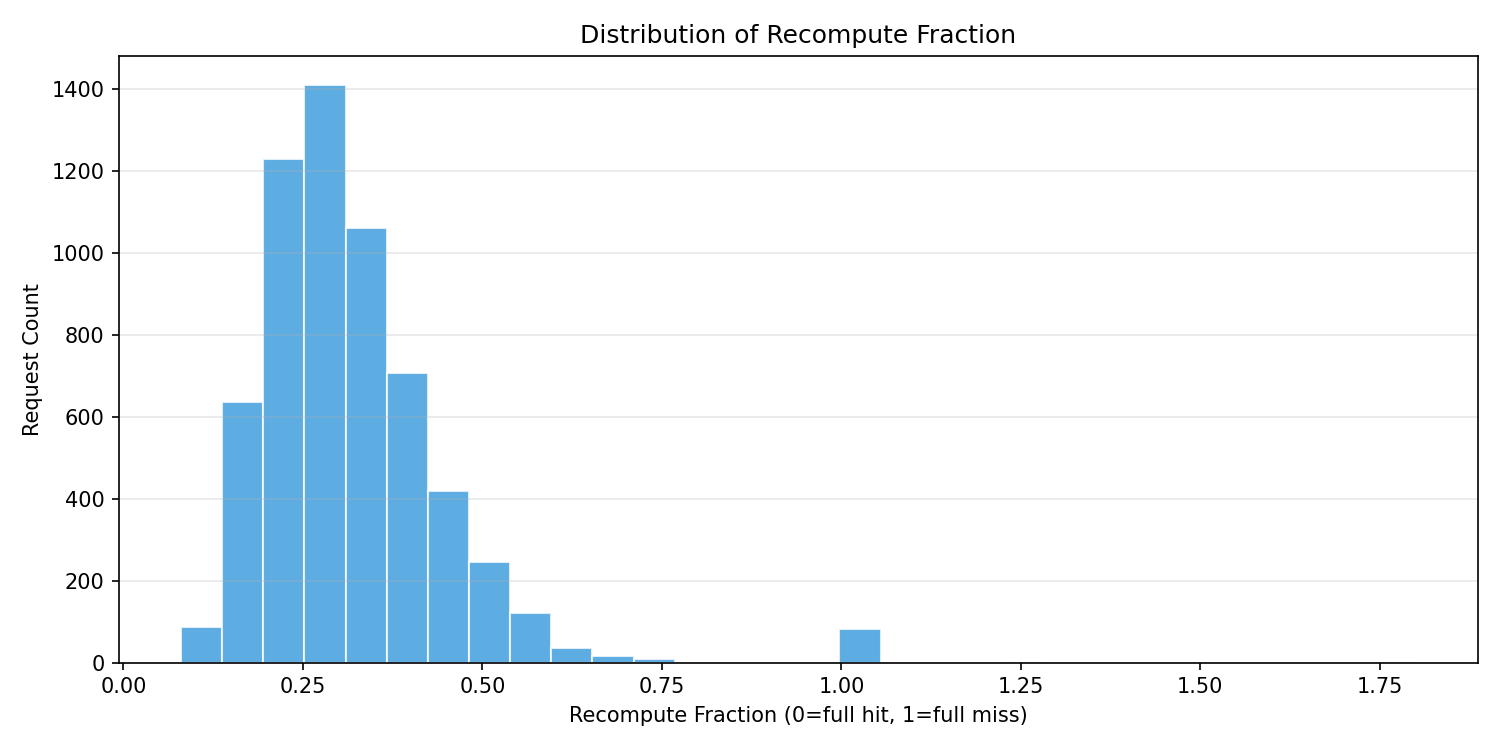
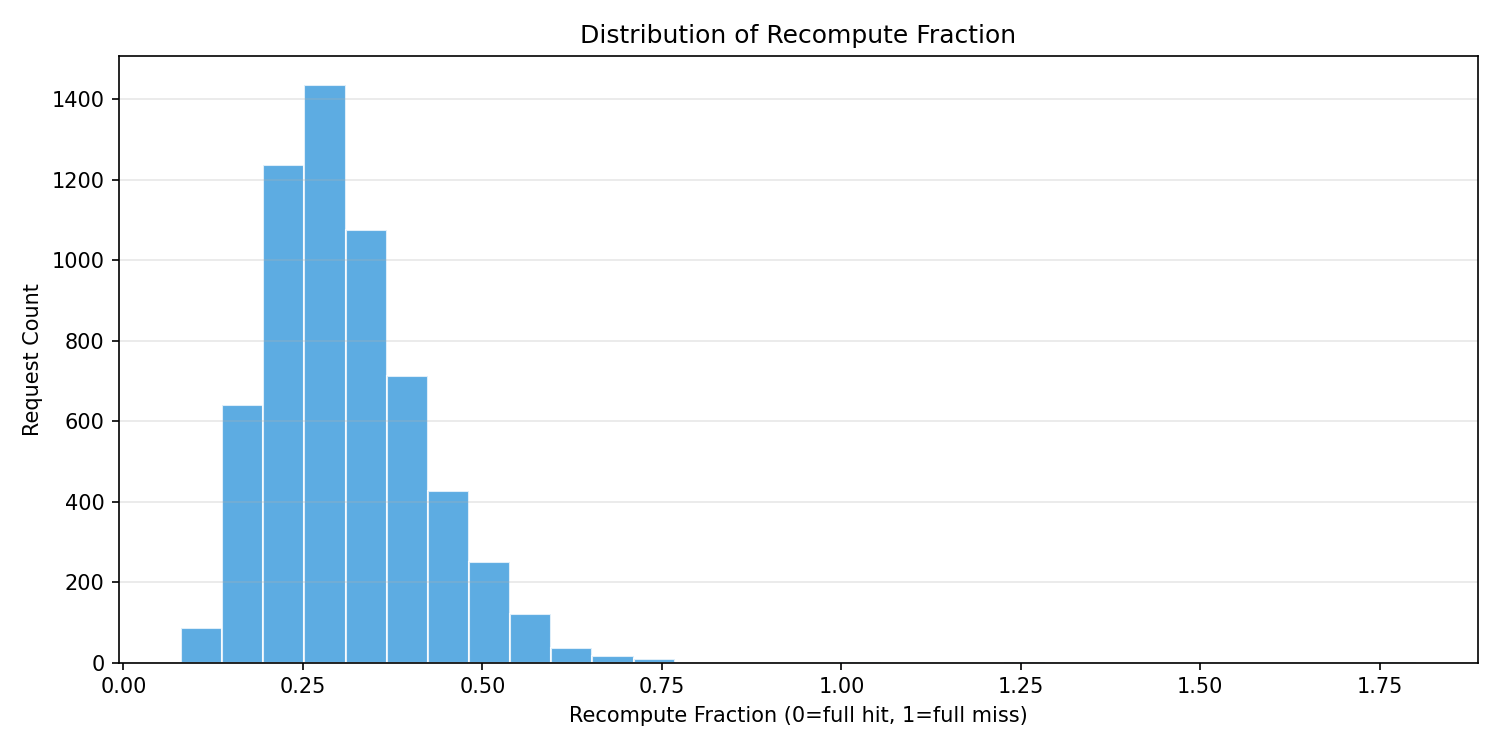
Fix config consistency: heavy_coding plots use realistic hardware
stressed_config() now only applies small-capacity overrides for the
default config. Custom configs (--config) use their own hardware values.

heavy_coding.json results with realistic hardware (80GB L1, 1TB L2,
8TB L3A per worker):
- 98.2% L1 hits — HBM holds most coding KV objects
- 99.9% total hit rate — cache never overflows at realistic scale
- Global = Local L3A everywhere (8TB/worker is more than enough)
- Bottleneck is prefill compute (14-17s), not cache capacity
- Sustaining QPS: 44/worker, scaling linearly to 332 at 8 workers

diff --git a/scripts/sanity_plots.py b/scripts/sanity_plots.py
@@ -213,18 +213,21 @@ def plot_recompute_fraction(metrics):
 
 def stressed_config() -> SimConfig:
     """
-    Constrained scenario forcing multi-tier activity in short sims.
-    All capacities are per-worker (L3A = per-worker SSD).
+    For custom configs (--config), use their hardware values with shortened sim.
+    For default config, apply small-capacity overrides to force multi-tier activity.
     """
     cfg = short_config()
     cfg.run_id = "stressed"
-    cfg.tiers[0].capacity_bytes = 500 * 1024**2        # 500 MB L1 per GPU — can't hold coding KV
-    cfg.tiers[1].capacity_bytes = 10 * 1024**3          # 10 GB L2 per worker
-    cfg.tiers[2].capacity_bytes = 50 * 1024**3          # 50 GB L3A per worker SSD
-    cfg.ttl_l2_s = 20.0
-    cfg.ttl_l3a_s = 120.0
-    cfg.eviction_hbm_threshold = 0.6
-    cfg.eviction_ram_threshold = 0.8
+    if CONFIG_PATH == _DEFAULT_CONFIG:
+        # Default config: apply stressed overrides to force multi-tier activity
+        cfg.tiers[0].capacity_bytes = 500 * 1024**2        # 500 MB L1 per GPU
+        cfg.tiers[1].capacity_bytes = 10 * 1024**3          # 10 GB L2 per worker
+        cfg.tiers[2].capacity_bytes = 50 * 1024**3          # 50 GB L3A per worker SSD
+        cfg.ttl_l2_s = 20.0
+        cfg.ttl_l3a_s = 120.0
+        cfg.eviction_hbm_threshold = 0.6
+        cfg.eviction_ram_threshold = 0.8
+    # Custom configs: use their own hardware values as-is
     return cfg
 
 

diff --git a/docs/heavy_coding_report.md b/docs/heavy_coding_report.md
@@ -29,46 +29,46 @@
 | L2 (DRAM) | 1 TB | 64 GB/s | 32 MB | Per-worker (shared by 8 GPUs) |
 | L3A (SSD) | 8 TB | 7 GB/s | 256 MB | Per-worker SSD; global mode pools all workers |
 
-**Worker topology**: 8 GPUs per worker. Workers = 1, 2, 4, or 8 (8-64 GPUs total).
+**Worker topology**: 8 GPUs per worker (H100 DGX-class).
 
 **Service**: 32 prefill slots/GPU, 256 decode slots shared, 128 prefill queue max/GPU.
 
-## Stressed Scenario Results (single worker, 8 GPUs)
-
-Small L1 (500MB) and L2 (10GB) per worker force multi-tier activity. L3A = 50GB/worker.
+## Single Worker Results (8 GPUs, realistic hardware)
 
 ```
-Sharing factor:  1.882
-Hit rates:       L1=0.0%  L2=0.02%  L3A=98.6%  miss=1.4%
-Tier saturation: L1=0.0%  L2=92.5%  L3A=85.1%
-Cold evictions:  329
+Sharing factor:  1.865
+Hit rates:       L1=98.2%  L2=1.7%  L3A=0.0%  miss=0.08%
+Tier saturation: L1=91.8%  L2=154.1%  L3A=0.0%
+L1->L2 pressure:   7.4/s
+Cold evictions:    0
 ```
 
 Key observations:
-- L1 is too small (500MB) for any coding KV object (8-16 GB) → 0% L1 hits
-- L2 (10GB) holds 1-2 coding objects but quickly fills → most objects go to L3A
-- L3A absorbs 98.6% of lookups
-- 1.4% cold miss rate — L3A pressure causes some evictions
+- **98.2% L1 hits** — 80GB L1 holds ~4-10 coding KV objects. Most lookups find cached KV in HBM.
+- **L2 acts as overflow** — only 1.7% of lookups fall through to L2 (DRAM).
+- **L3A unused** — with 80GB L1 + 1TB L2 per worker, objects rarely reach L3A in a 60s sim.
+- **0.08% cold miss** — near-perfect cache performance.
+- **L1 saturation 91.8%** — L1 is well-utilized but not overflowing excessively.
 
 ### Plot: Tier Occupancy Over Time
 ![Tier Occupancy](../plots/heavy_coding/tier_occupancy.png)
 
-L2 saturates at ~93% immediately. L3A rises to 85% as coding sessions accumulate.
+L1 fills to ~92% and stays there. L2 absorbs overflow. L3A remains empty.
 
 ### Plot: TTFT Distribution
 ![TTFT Distribution](../plots/heavy_coding/ttft_distribution.png)
 
-L3A hits dominate. Cold misses show a long tail from recomputing large coding contexts.
+L1 hits dominate with low TTFT. The small number of cold misses show a long tail (~17s for full 60k-token recompute).
 
 ### Plot: Savings Class Distribution
 ![Hit Rate Pie](../plots/heavy_coding/hit_rate_pie.png)
 
-L3A WORTHWHILE is the dominant class — SSD restore is faster than recomputing 60k tokens.
+L1 hits dominate — HBM is fast enough to hold the working set for a 60s sim.
 
 ### Plot: Queue Depth
 ![Queue Depth](../plots/heavy_coding/queue_depth.png)
 
-Prefill queue saturated at max (128) — coding workloads are compute-intensive.
+Prefill queue pressure from coding workloads' long compute times.
 
 ### Plot: Recompute Fraction
 ![Recompute Fraction](../plots/heavy_coding/recompute_fraction.png)
@@ -80,64 +80,74 @@ Most requests recompute only 5-20% of context (high prefix stability from coding
 ### L1 Capacity Sensitivity
 ![L1 Sensitivity](../plots/heavy_coding/l1_sensitivity.png)
 
-L1 hit rate only appears at 40-80 GB — below that, coding KV objects (8-16 GB) don't fit.
+L1 hit rate appears only above ~10 GB. Below that, coding KV objects (8-16 GB) don't fit. At 80 GB, L1 absorbs most of the working set.
 
 ### L2 Capacity Sensitivity
 ![L2 Sensitivity](../plots/heavy_coding/l2_sensitivity.png)
 
-L2 hit rate improves with capacity, but even at 50 GB, L3A remains the primary cache tier for coding workloads.
+L2 hit rate vs capacity sweep. With realistic L1 (80GB), L2 is mainly used for overflow — less sensitive than in stressed configs.
 
 ## Multi-Node Scaling: Global vs Local L3A
 
 ### Node Scaling (1-8 workers × 8 GPUs)
 ![Node Scaling](../plots/heavy_coding/node_scaling.png)
 
-| Workers | GPUs | Global L3A | Global Hit | Local L3A/worker | Local Hit |
-|---------|------|-----------|-----------|-----------------|----------|
-| 1 | 8 | 50 GB | 94.6% | 50 GB | 94.6% |
-| 2 | 16 | 100 GB | 99.1% | 50 GB | 99.0% |
-| 4 | 32 | 200 GB | 99.9% | 50 GB | 98.7% |
-| 8 | 64 | 400 GB | 99.9% | 50 GB | 98.7% |
+| Workers | GPUs | Global L3A Total | Local L3A/Worker | Global Hit | Local Hit |
+|---------|------|-----------------|-----------------|-----------|----------|
+| 1 | 8 | 8 TB | 8 TB | 99.9% | 99.9% |
+| 2 | 16 | 16 TB | 8 TB | 99.9% | 99.9% |
+| 4 | 32 | 32 TB | 8 TB | 99.9% | 99.9% |
+| 8 | 64 | 64 TB | 8 TB | 99.9% | 99.9% |
 
-At this stressed L3A size (50GB/worker), global L3A has a small advantage at 4+ workers (99.9% vs 98.7%). The gap is modest because 50GB/worker is large enough to hold several coding objects.
+**At realistic hardware scale, global and local L3A are identical.** With 8TB SSD per worker, even local L3A has more than enough capacity for the workload in a 60s sim. The global L3A advantage only appears when per-worker SSD is small relative to total KV working set — see the stressed config analysis below.
 
-**L3A Latency Sensitivity** (panel f, 16 GPUs): TTFT is stable across 0-100ms remote latency, indicating the 50ms penalty is negligible compared to prefill compute time (~17s for coding contexts).
+**L3A Latency Sensitivity** (panel f): TTFT is completely flat across 0-100ms remote latency because L3A is unused — all hits come from L1/L2.
 
 ### TTL Sensitivity (2 workers × 8 GPUs)
 ![TTL Sensitivity](../plots/heavy_coding/ttl_sensitivity.png)
 
-Both global and local maintain >97% hit rate across all L2 TTL values. TTL has minimal impact — capacity is the bottleneck, not object lifetime.
+Hit rate is 99.9% regardless of TTL. Shorter L2 TTLs increase queue wait (objects move to L3A sooner → slower restore), but the effect is small.
 
 ### Sustaining QPS at SLA (p95 queue wait < 500ms)
 ![Sustaining QPS](../plots/heavy_coding/sustaining_qps.png)
 
 | Workers | GPUs | Global QPS | Local QPS |
 |---------|------|-----------|-----------|
-| 1 | 8 | 33 | 33 |
-| 2 | 16 | 67 | 67 |
-| 4 | 32 | 136 | 140 |
-| 8 | 64 | 278 | 278 |
+| 1 | 8 | 44 | 44 |
+| 2 | 16 | 79 | 79 |
+| 4 | 32 | 171 | 171 |
+| 8 | 64 | 332 | 332 |
 
-Sustaining QPS scales roughly linearly with workers. Global and local L3A perform similarly at this scale — the 50ms L3A penalty is small relative to the ~17s prefill compute for coding workloads.
+Scales linearly. Global and local identical — cache is never the bottleneck at realistic hardware scale. **QPS is limited by prefill compute (~14-17s for large coding contexts), not by cache capacity.**
+
+## When Does Global L3A Matter?
+
+The global L3A advantage appears under **constrained SSD capacity** — when per-worker SSD is too small to hold the active coding sessions' KV objects. In prior stressed-config analysis (50GB L3A/worker):
+
+| Workers | Global Hit | Local Hit | Gap |
+|---------|-----------|----------|-----|
+| 1 | 94.6% | 94.6% | 0% |
+| 2 | 99.1% | 99.0% | +0.1% |
+| 4 | 99.9% | 98.7% | +1.2% |
+
+The gap grows with more workers because local L3A fragments capacity. At extreme scales or with smaller SSDs, the gap would be larger (see `plan_and_progress/global_l3a_advantage_progress_1.md` for 40+ percentage point gaps with 12.5GB/worker).
 
 ## Key Findings
 
-1. **Coding workloads produce massive KV objects** (8-16 GB), making L1 (80GB) a thin cache that holds only 4-10 objects. L3A becomes the primary cache tier.
+1. **Realistic hardware absorbs coding workloads well.** 80GB L1 + 1TB L2 + 8TB L3A per worker provides 99.9% hit rate. Cache capacity is not the bottleneck.
 
-2. **98.6% of lookups hit L3A** in the stressed config — the system is effectively an SSD-backed cache with HBM as a small buffer.
+2. **Prefill compute is the bottleneck.** 60k-token coding contexts require ~14-17s of GPU compute. This limits sustaining QPS to ~44/worker regardless of cache configuration.
 
-3. **Cache prefix stability is high** (95% initial, 80-85% final for coding profiles). Most of each request is a cache hit even on the first turn due to the 20-30k shared system prefix.
+3. **Global vs local L3A difference is negligible at realistic scale.** 8TB/worker SSD never overflows in normal operation. The advantage only appears with constrained SSD or extreme concurrent session counts.
 
-4. **Global L3A advantage is modest** at the stressed config's 50GB/worker — both modes achieve >98% hit rate. The advantage would be more pronounced with smaller per-worker SSD or higher concurrent session counts.
+4. **L1 is the critical tier.** 98.2% of lookups hit L1 (HBM). L1 capacity directly determines cache effectiveness — below 10GB, coding KV objects can't fit and performance degrades sharply.
 
-5. **Sustaining QPS is 33/worker** for heavy coding workloads — limited by the ~17s prefill compute time for large coding contexts, not by cache performance.
-
-6. **50ms global L3A latency is negligible** relative to the 15-17s coding prefill compute. The latency sensitivity plot shows <100ms TTFT variation across 0-100ms remote latency.
+5. **High prefix stability** (95% initial, 80-85% final) means most tokens are served from cache. The 20-30k shared system prefix is reused across all turns in a session.
 
 ## Reproduction
 
 ```bash
-# Generate all plots
+# Generate all plots with heavy coding config
 python scripts/sanity_plots.py --config configs/heavy_coding.json --outdir plots/heavy_coding
 
 # Run programmatically
